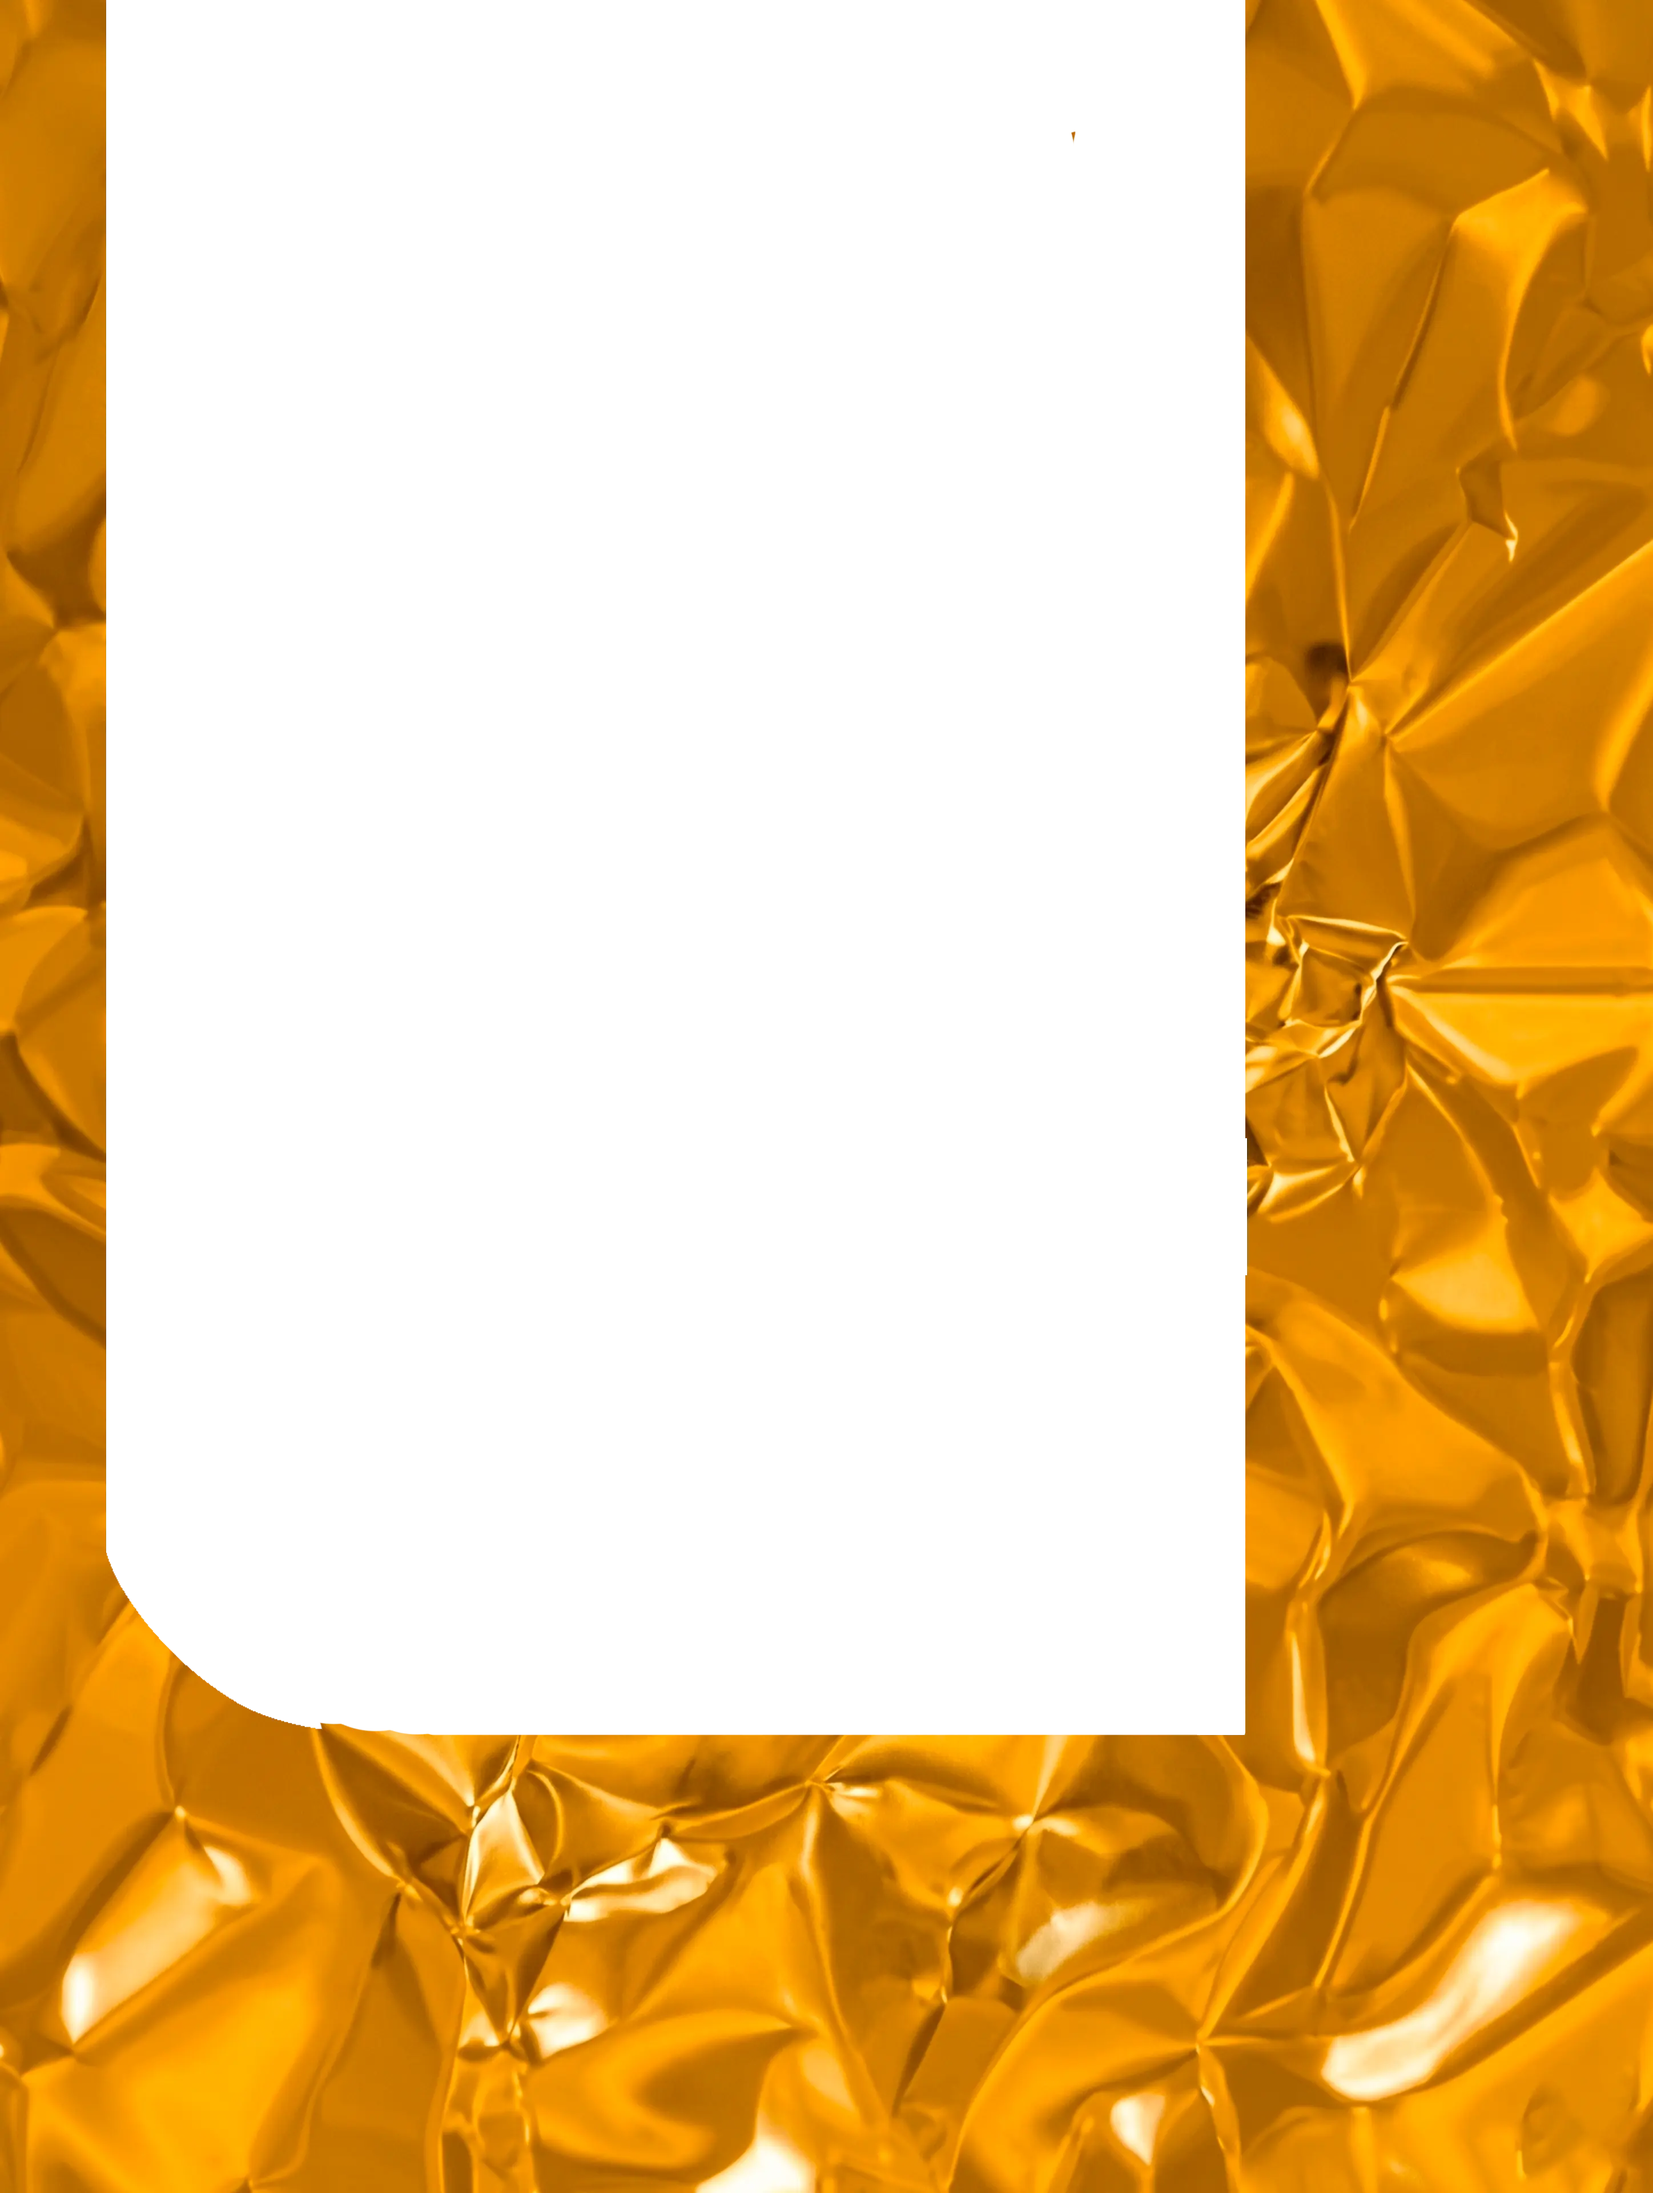
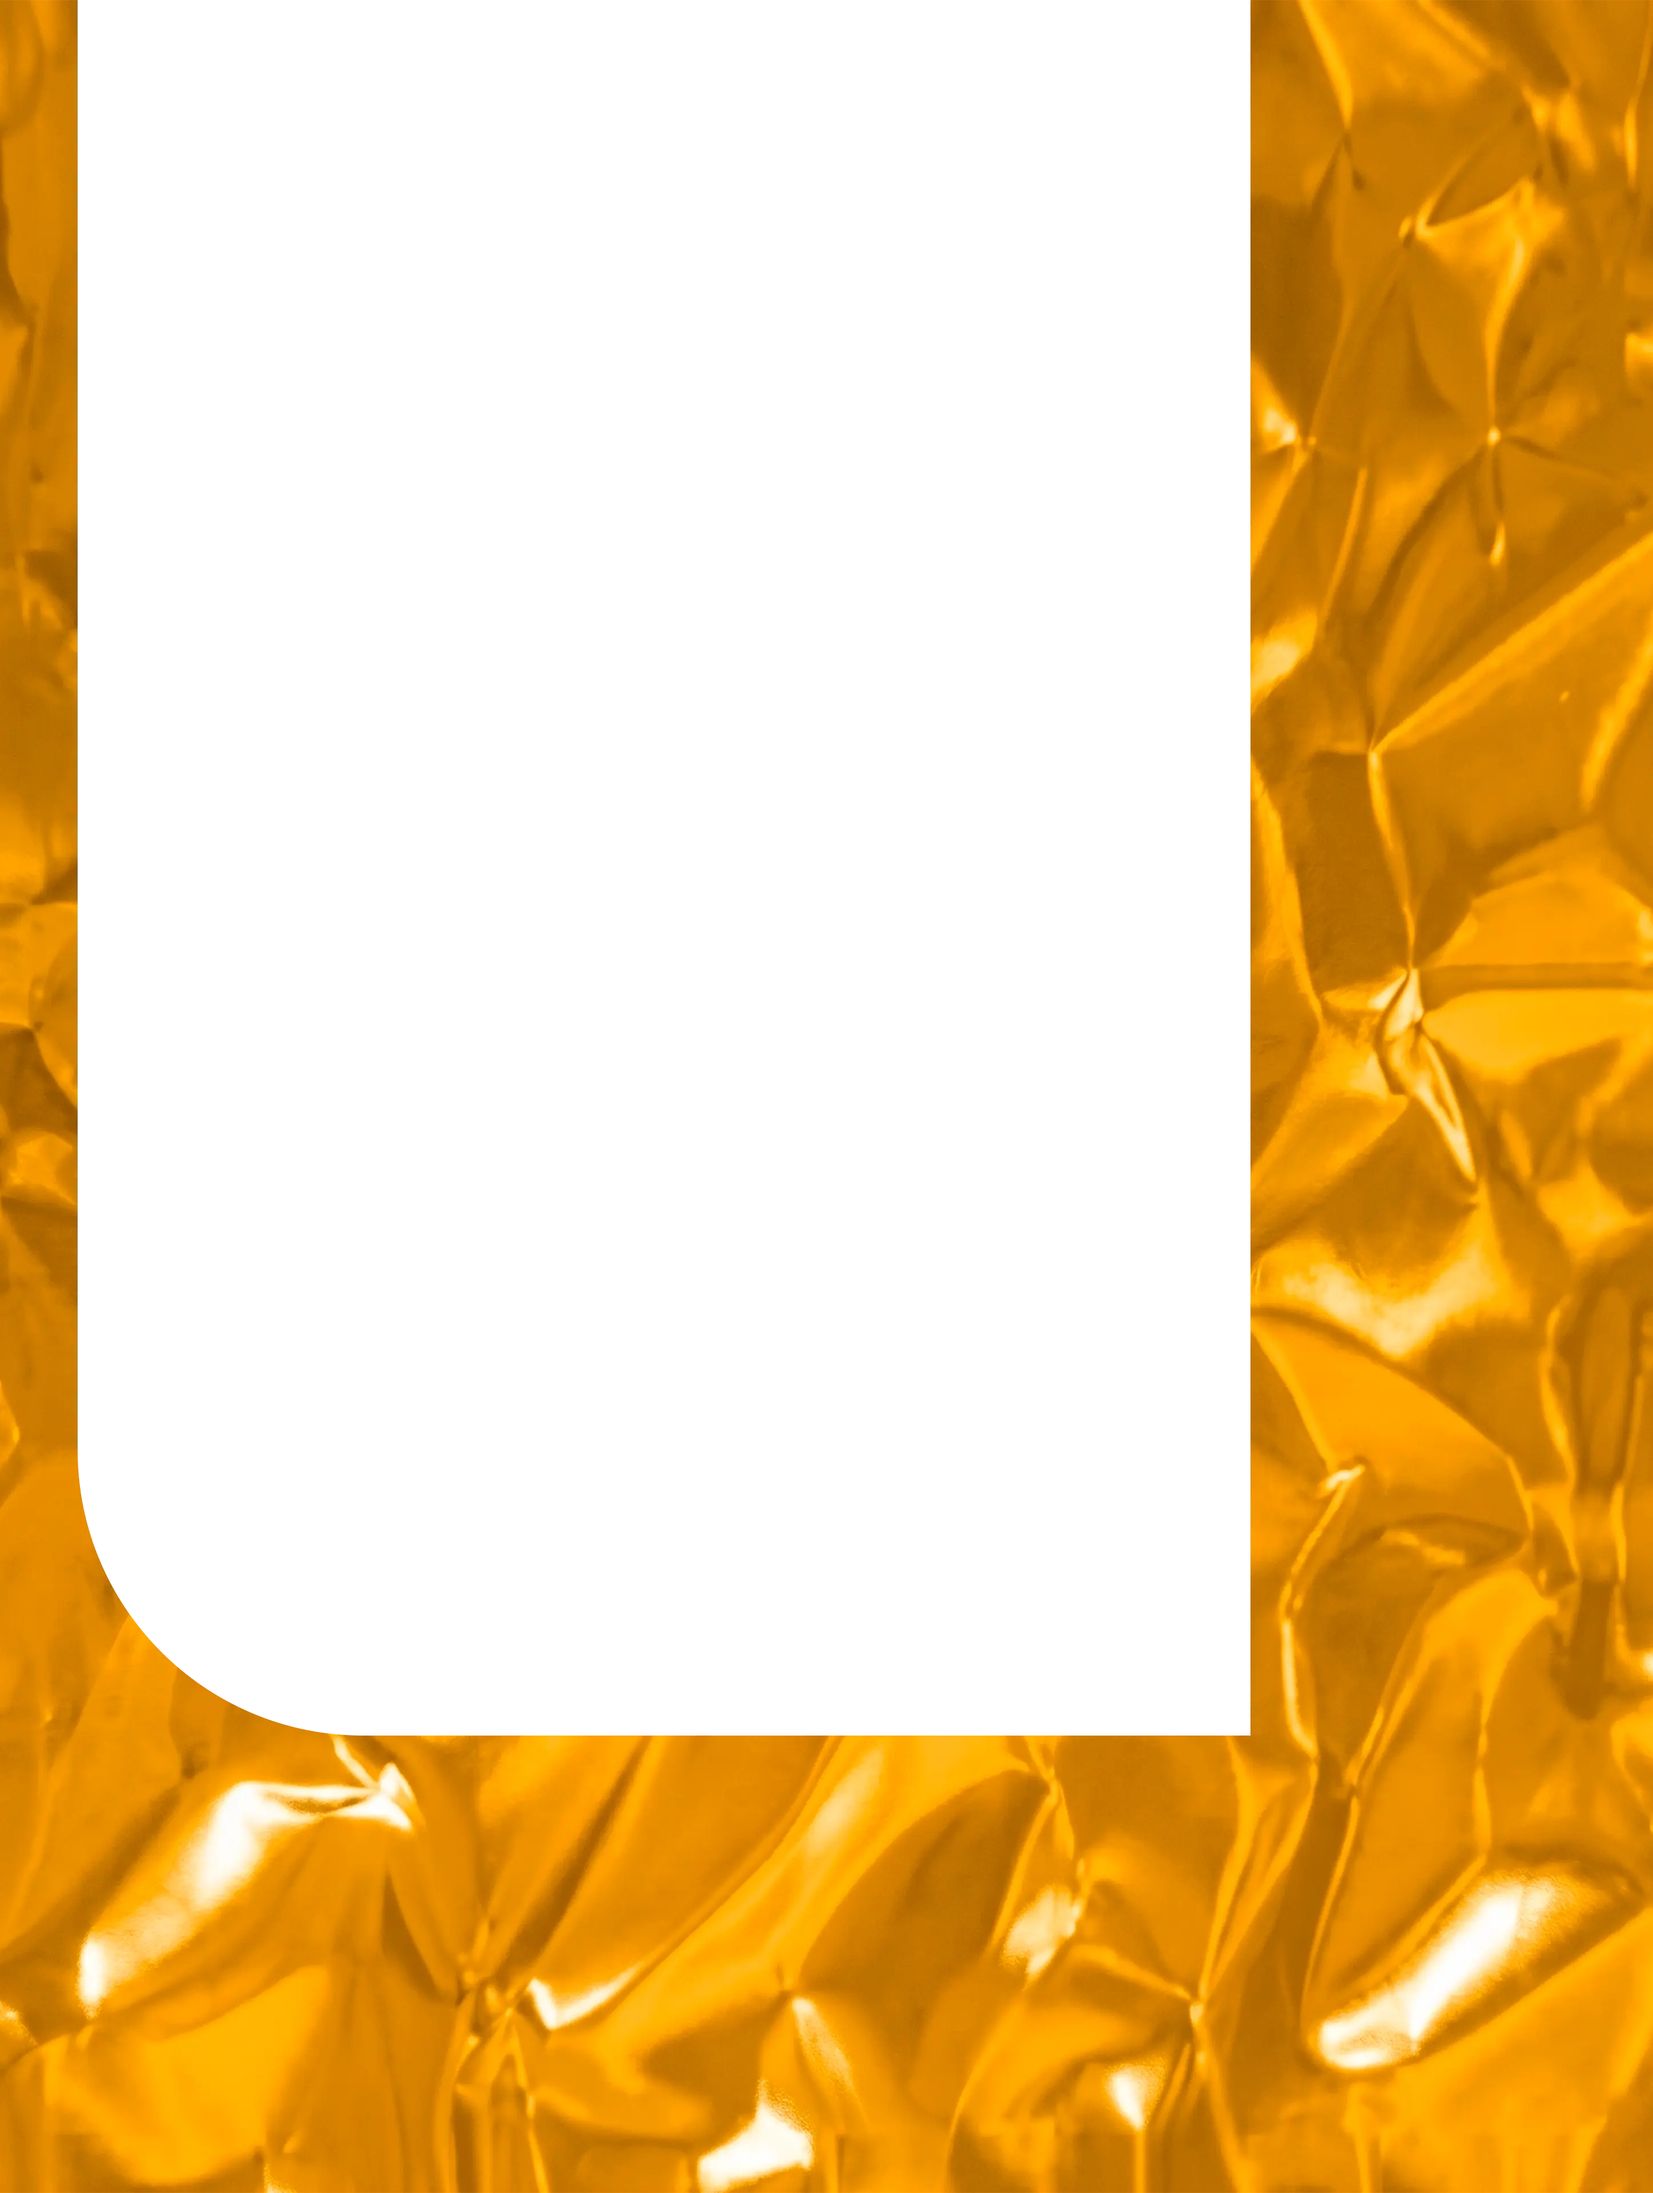
rusia18

diff --git a/frontend/Generador/edition-2026.js b/frontend/Generador/edition-2026.js
@@ -84,8 +84,8 @@ const Edition2026 = {
             { code: 'NOR', name: 'Noruega' },
         ],
         J: [
-            { code: 'ARG', name: 'Argentina' },
-            { code: 'ALG', name: 'Argelia' },
+            { code: 'ARG', name: 'Argentina'},
+            { code: 'ALG', name: 'Argelia'},
             { code: 'AUT', name: 'Austria' },
             { code: 'JOR', name: 'Jordania' },
         ],
@@ -111,6 +111,38 @@ const Edition2026 = {
         ],
     },
 
+    countryColors: {
+        'MEX': { c2: '#006847', c6: '#ce1126', cCosito: '#ffffff' },
+        'RSA': { c2: '#e1392d', c6: '#000c8a', cCosito: '#007847'},
+        'KOR': { c2: '#ffffff', c6: '#0047a0', cCosito: '#cd2e3a'},
+        'CZE': { c2: '#11457e', c6: '#ffffff', cCosito: '#d7141a'},
+        'CAN': { c2: '#d52b1e', c6: '#ffffff', cCosito: '#d45c54'},
+        'BIH': { c2: '#000099', c6: '#ffcc00', cCosito: '#5b7fd2'},
+        'QAT': { c2: '#ffffff', c6: '#8d1b3d', cCosito: '#b05e77'},
+        'SUI': { c2: '#ff0000', c6: '#ff0000', cCosito: '#ffffff'},
+        'BRA': { c2: '#229e45', c6: '#229e45', cCosito: '#f8e509'},
+        'MAR': { c2: '#c1272d', c6: '#c1272d', cCosito: '#0c5d32'},
+        'HAI': { c2: '#00209f', c6: '#d21034', cCosito: '#db768a'},
+        'SCO': { c2: '#0065bd', c6: '#0065bd', cCosito: '#ffffff'},
+        'USA': { c2: '#0065bd', c6: '#192f5d', cCosito: '#e4102b'},
+        'PAR': { c2: '#d52b1e', c6: '#0038a8', cCosito: '#ffffff'},
+        'AUS': { c2: '#00008b', c6: '#ffffff', cCosito: '#ff0000' },
+        'TUR': { c2: '#e30a17', c6: '#e30a17', cCosito: '#ffffff'},
+        'GER': { c2: '#000001', c6: '#ffcc00', cCosito: '#ff0000'},
+        'CUW': { c2: '#002b7f', c6: '#f9e814', cCosito: '#5f7fbf'},
+        'CIV': { c2: '#ff9a00', c6: '#00cd00', cCosito: '#ffffff'},
+        'ECU': { c2: '#ffe800', c6: '#da0010', cCosito: '#00148e'},
+        'NED': { c2: '#ae1c28', c6: '#21468b', cCosito: '#ffffff'},
+        'JPN': { c2: '#ffffff', c6: '#ffffff', cCosito: '#bc002d'},
+        'SWE': { c2: '#005293', c6: '#005293', cCosito: '#fecb00'},
+        'TUN': { c2: '#e70013', c6: '#e70013', cCosito: '#ffffff'},
+        'BEL': { c2: '#000001', c6: '#f31830', cCosito: '#ffd90c'},
+        'EGY': { c2: '#ce1126', c6: '#000001', cCosito: '#ffffff'},
+        'IRI': { c2: '#239f40', c6: '#da0000', cCosito: '#ffffff'},
+        'NZL': { c2: '#00247d', c6: '#c8102e', cCosito: '#385aa8'},
+        'ARG': { c2: '#74a9db', c6: '#ffffff', cCosito: '#9ab7dd' },
+    },
+
     positions: {
         gk: { label: 'Goalkeeper', rectColor: '#79438e' },
         def: { label: 'Defender', rectColor: '#d22d4b' },
@@ -123,10 +155,8 @@ const Edition2026 = {
         photoY:     -80,
         photoX:     null,  
         cBg:        '#65c8c9',
-        useGoldBg:  false,
-        c2:         '#74a9db',
-        c6:         '#ffffff',
-        cCosito:    '#9ab7dd',
+        useGoldBg: false,
+        c2: '#74a9db', c6: '#ffffff', cCosito: '#9ab7dd',
         position:   'mid',
         name: 'NAME',
         apellido: 'LASTNAME',
@@ -199,7 +229,7 @@ const Edition2026 = {
 
         if (tints.num2)   ctx.drawImage(tints.num2,   0, 0, W, H);
         if (tints.num6)   ctx.drawImage(tints.num6, 0, 0, W, H);
-        if (tints.cosito) ctx.drawImage(tints.cosito, -1, 0, W, H);
+        if (tints.cosito) ctx.drawImage(tints.cosito, 0, 0, W, H);
 
         if (photo) {
             const sc = state.photoScale / 40;
@@ -223,7 +253,7 @@ const Edition2026 = {
         if (state.useGoldBg && imgs['marcogold']) {
             ctx.drawImage(imgs['marcogold'], 0, 0, W, H);
         }
-        if (tints.marco6) ctx.drawImage(tints.marco6, 515, -48.5, W, H);
+        if (tints.marco6) ctx.drawImage(tints.marco6, 0, 0, W, H);
         if (typeof drawFlagInMarco === 'function') {
             drawFlagInMarco(ctx, flagImg);
         } else if (flagImg) {

diff --git a/frontend/Generador/edition-rusia2018.js b/frontend/Generador/edition-rusia2018.js
@@ -5,6 +5,7 @@ const EditionRusia2018 = {
     downloadSuffix: '2018',
 
     flagsPath: '/frontend/assets/flags/rusiaflags/',
+    flagsSvgPath: 'https://cdn.jsdelivr.net/gh/lipis/flag-icons@7.3.2/flags/4x3/',
     miniflagsPath: '/frontend/assets/flags/miniflags/',
 
     canvasW: 2994,
@@ -104,6 +105,8 @@ const EditionRusia2018 = {
         { id: 'logo',     src: '/frontend/assets/rusia18/logorusia.png'  },
         { id: 'posicion', src: '/frontend/assets/rusia18/posicion.png'   },
         { id: 'textos',   src: '/frontend/assets/rusia18/textos.png'     },
+        { id: 'flagmask', src: '/frontend/assets/rusia18/flagmask.png' },
+        { id: 'bandera',  src: '/frontend/assets/rusia18/bandera.png'},
     ],
 
     buildTints(imgs, state) {
@@ -156,7 +159,33 @@ const EditionRusia2018 = {
         if (tints.posicion) ctx.drawImage(tints.posicion, 0, 0, W, H);
         if (imgs['logo']) ctx.drawImage(imgs['logo'], 0, 0, W, H);
         if (imgs['textos']) ctx.drawImage(imgs['textos'], 0, 0, W, H);
-        if (flagImg) ctx.drawImage(flagImg, 0, 0, W, H);
+        // ── BANDERA con máscara ───────────────────────────────────────────────
+        // La máscara (rusia2018.png) es una imagen con la forma blanca sobre fondo negro.
+        // Se dibuja la bandera en un canvas offscreen, luego se aplica la máscara
+        // con destination-in para recortarla a la forma exacta.
+        if (flagImg && imgs['flagmask']) {
+            const fOff = document.createElement('canvas');
+            fOff.width  = W;
+            fOff.height = H;
+            const fCtx = fOff.getContext('2d');
+
+            // Área de la máscara en canvas 2994×3960 (medida de rusia2018.png)
+            const MX = 2331, MY = 159, MW = 343, MH = 359;
+
+            // Escalar bandera para cubrir el alto del área, centrada en X
+            const fScale = MH / (flagImg.naturalHeight || flagImg.height || MH);
+            const fW     = (flagImg.naturalWidth  || flagImg.width)  * fScale;
+            const fX     = MX + (MW - fW) / 2;
+            fCtx.drawImage(flagImg, fX, MY, fW, MH);
+
+            // Recortar con la máscara: los píxeles blancos de flagmask definen la forma
+            fCtx.globalCompositeOperation = 'destination-in';
+            fCtx.drawImage(imgs['flagmask'], 0, 0, W, H);
+
+            // Componer sobre el canvas principal
+            ctx.drawImage(fOff, 0, 0);
+        }
+        if (imgs['bandera']) ctx.drawImage(imgs['bandera'], 0, 0, W, H);
 
         // ── PAIS CODE ──
         ctx.save();

diff --git a/frontend/Generador/editor.js b/frontend/Generador/editor.js
@@ -86,11 +86,8 @@ function loadLayers(edition) {
     });
 }
 
-// Coordenadas del área del marco-bandera en el canvas (2895×3840),
-// derivadas del rect en marcobandera.svg (viewBox 765.96873×1016).
 const MARCO_FLAG = { x: 2256, y: 2093, w: 391, h: 388 };
 
-// Mapeo FIFA alpha-3 → ISO alpha-2 (para CDN flagicons lipis)
 const ALPHA3_TO_ALPHA2 = {
     // Grupo A
     MEX: 'mx', RSA: 'za', KOR: 'kr', CZE: 'cz',
@@ -117,7 +114,7 @@ const ALPHA3_TO_ALPHA2 = {
     // Grupo L
     ENG: 'gb-eng', CRO: 'hr', GHA: 'gh', PAN: 'pa',
     // Extra
-    VEN: 've', IRL: 'ie', ITA: 'it', POL: 'pl', CHI: 'cl', BOL: 'bo',
+    VEN: 've', IRL: 'ie', ITA: 'it', POL: 'pl', CHI: 'cl', BOL: 'bo', RUS: 'ru', DEN: 'dk', PER: 'pe', ISL: 'is', NGA: 'ng', CRC: 'cr', SRB: 'rs', 
 };
 
 let _flagPending = null;
@@ -393,6 +390,20 @@ function selectCountry(country) {
         '</div>';
     searchInput.value      = '';
     dropdown.style.display = 'none';
+
+    const colors = activeEdition.countryColors?.[state.code];
+    if (colors) {
+        state.c2 = colors.c2;
+        state.c6 = colors.c6;
+        state.cCosito = colors.cCosito;
+        const c2El = document.getElementById('c2');
+        const c6El = document.getElementById('c6');
+        const cCositoEl = document.getElementById('cCosito');
+        if (c2El) c2El.value = colors.c2;
+        if (c6El) c6El.value = colors.c6;
+        if (cCositoEl) cCositoEl.value = colors.cCosito;
+        onUpdate('tints');
+    }
 }
 
 function normalizeStr(str) {
@@ -527,7 +538,7 @@ const TABS = [
     { label: '2026',              edition: Edition2026,      disabled: false, icon: '/frontend/assets/svg/logofifa3.svg' },
     { label: '2022', edition: EditionQatar2022, disabled: false, icon: '/frontend/assets/svg/logoqatar.svg' },
     { label: 'EXTRA STICKER 2026', edition: EditionExtraCard, disabled: false, icon: '/frontend/assets/extra.png' },
-    { label: '2018', edition: EditionRusia2018, disabled: true, icon: '/frontend/assets/svg/logorusia.svg' },
+    { label: '2018', edition: EditionRusia2018, disabled: false, icon: '/frontend/assets/svg/logorusia.svg' },
     { label: 'EXTRA STICKER 2022', sub: 'COMING SOON', edition: null, disabled: true, icon: '/frontend/assets/extra22.png' },
     { label: '2014', sub: 'COMING SOON', edition: null, disabled: true, icon: '/frontend/assets/svg/logobrasil.svg' },
 ];

diff --git a/frontend/Generador/index.html b/frontend/Generador/index.html
@@ -17,9 +17,9 @@
     <meta property="og:site_name" content="MundialHub 2026">
     <meta property="og:title" content="Figurita Mundial — Generador con IA Gratis">
     <meta property="og:description" content="Creá tu propia figurita del Mundial con IA. Subí tu foto, elegí tu país y descargá en alta resolución. ¡100% gratis!">
-    <meta property="og:image" content="https://mundialhub.vercel.app/frontend/assets/og-preview.png">
-    <meta property="og:image:width" content="1650">
-    <meta property="og:image:height" content="2310">
+    <meta property="og:image" content="https://mundialhub.vercel.app/frontend/assets/og-preview.webp">
+    <meta property="og:image:width" content="630">
+    <meta property="og:image:height" content="1200">
     <meta property="og:image:alt" content="Ejemplo de figurita del Mundial 2026 generada con IA">
     <meta name="twitter:card" content="summary_large_image">
     <meta name="twitter:title" content="Figurita Mundial 2026 — Generador Panini con IA Gratis">
